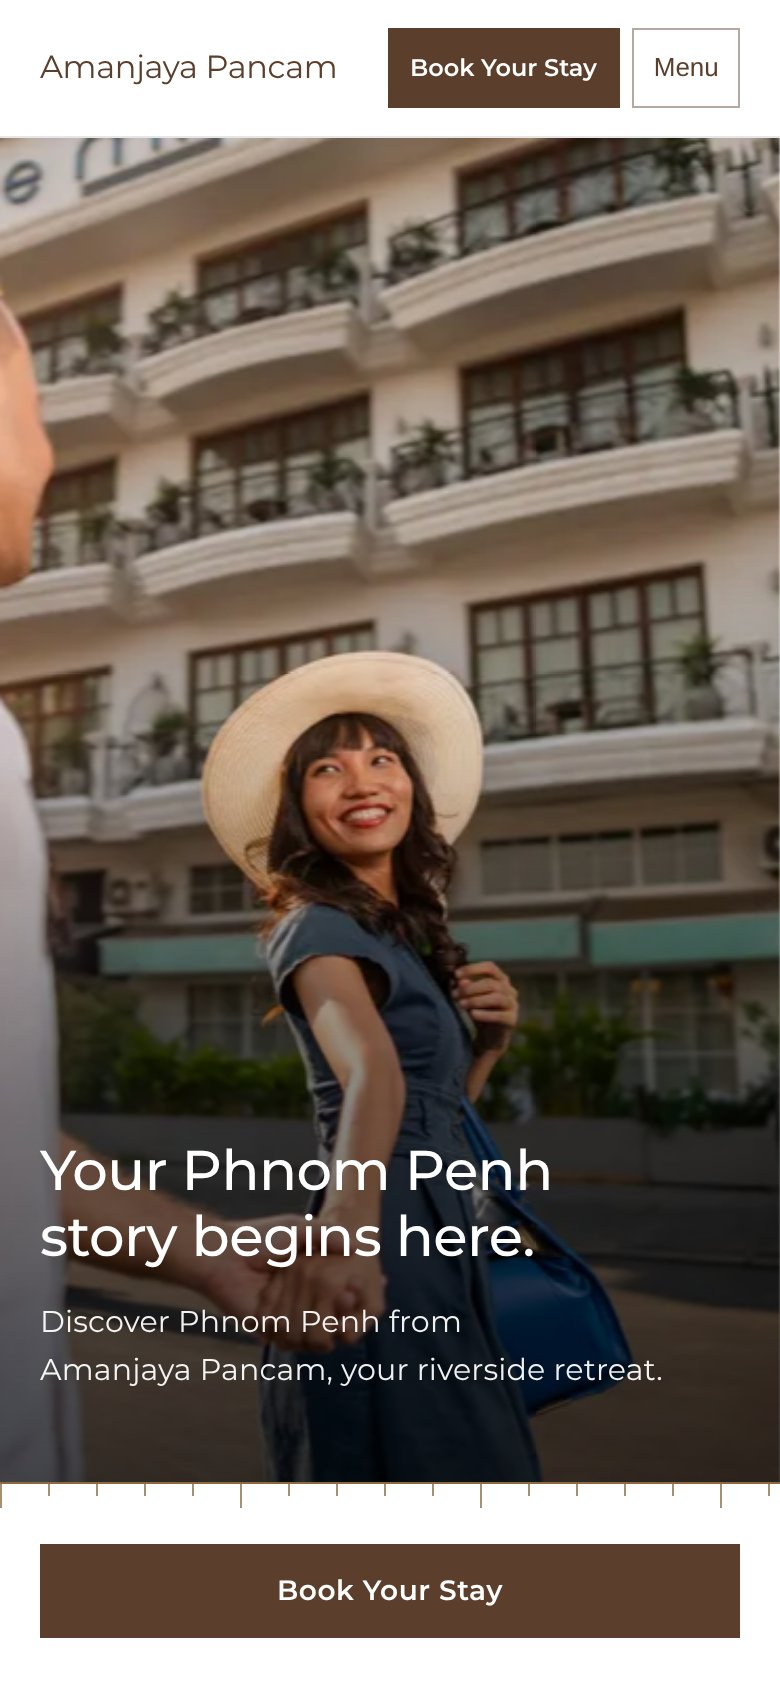
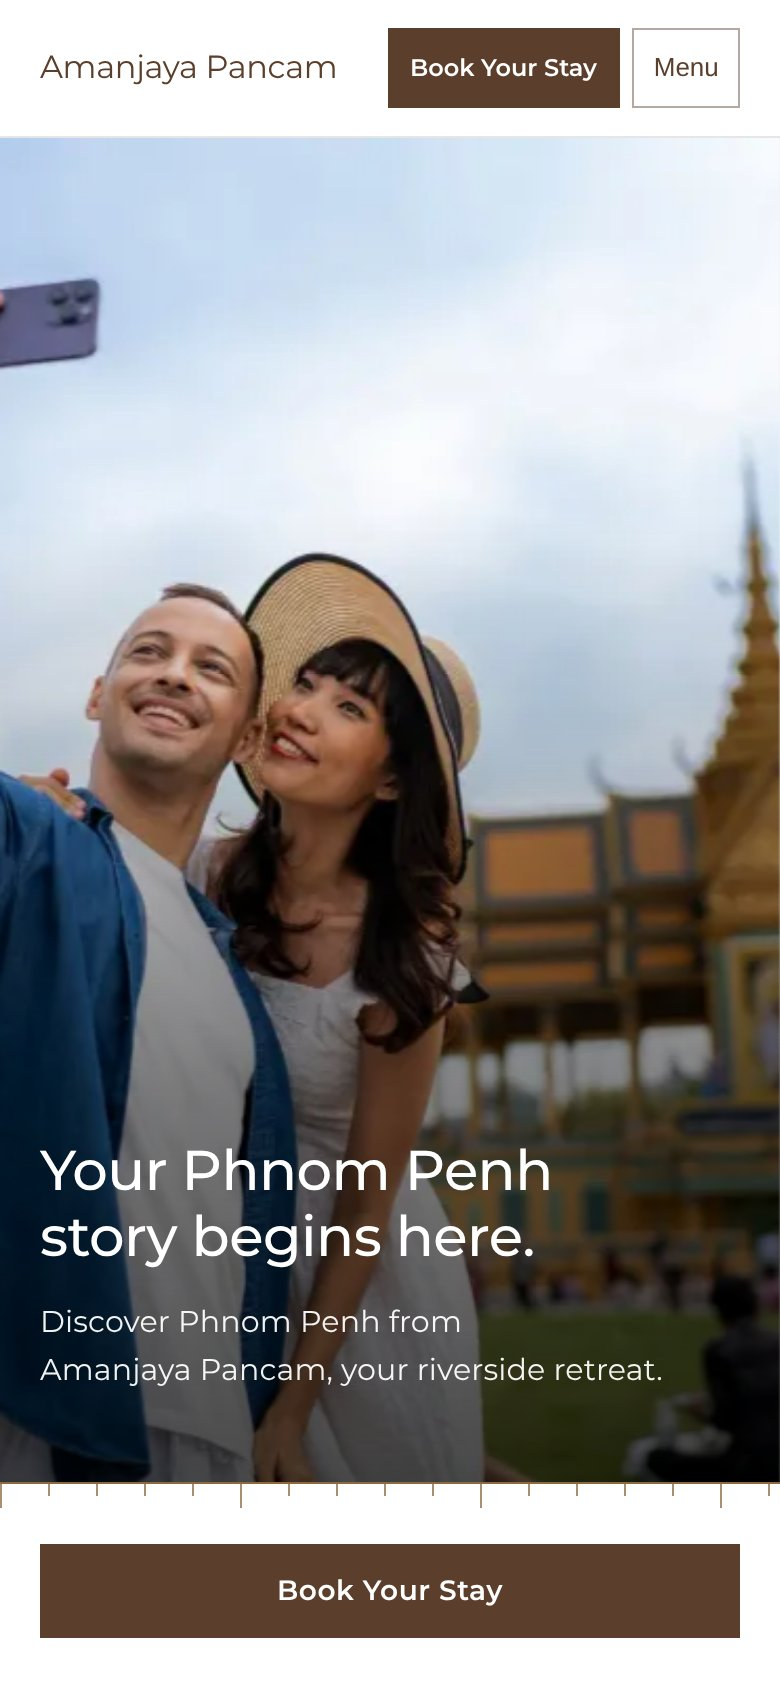
Hero: activate the new photograph (couple taking a selfie at the Royal Palace)
home.ts now points the active hero at amanajaya-hero, with new alt text and
per-photograph desktop and phone focal points (moved out of Hero.astro). The
previous hero stays available as option E. The text block sits upper right
from 72rem and at the foot below that; the shade is now a soft top-right
vignette on wide screens, tuned for the lighter sky (headline 4.0:1 or better,
supporting line 4.2:1 or better at the worst point).

Claude-Session: https://claude.ai/code/session_01Ltb6LhfXKYs7J7ZKfoUyej

diff --git a/src/content/home.ts b/src/content/home.ts
@@ -6,19 +6,30 @@
  */
 
 /**
- * Hero photograph options. A is the approved hero; B to D are kept for the next creative review
- * (comparison in docs/screenshots/hero-options.jpg and docs/PHOTO-REVIEW.md).
+ * Hero photograph options. A is the approved hero; B to E are kept for review
+ * (comparison in docs/screenshots/hero-options.jpg and docs/PHOTO-REVIEW.md). E is the previous hero.
+ * `position` is the desktop focal point and `positionMobile` the phone one (CSS object-position).
  * To preview another option locally:  PUBLIC_HERO_OPTION=B npm run dev
  * Builds use A unless that variable is set.
  */
 export const heroOptions = [
   {
     id: 'A',
+    photo: 'amanajaya-hero',
+    /** Desktop: both faces sit left of centre, so the right stays open for the text. */
+    position: '50% 20%',
+    /** Phones: a narrow window centred on the two faces (they span about 35% to 55% across the photograph). */
+    positionMobile: '50% 35%',
+    alt: 'A smiling couple takes a selfie in front of the Royal Palace in Phnom Penh, the man holding his phone at arm’s length and the woman in a sun hat leaning in beside him',
+    note: 'Couple taking a selfie in front of the Royal Palace (2048 px, uploaded by the hotel team). Current.',
+  },
+  {
+    id: 'E',
     photo: 'hero',
-    /** Focal point so the crop keeps the smiling guest and the hotel balconies on every screen shape. */
-    position: '60% 18%',
+    position: '60% 14%',
+    positionMobile: '66% 30%',
     alt: 'A couple walks hand in hand at sunset in front of the Amanjaya Pancam hotel',
-    note: 'Couple in front of the hotel at golden hour (2560 px). Current.',
+    note: 'Couple in front of the hotel at golden hour (2560 px). The previous hero.',
   },
   {
     id: 'B',
@@ -48,6 +59,7 @@ const chosenHero = heroOptions.find((o) => o.id === import.meta.env.PUBLIC_HERO_
 export const hero = {
   photo: chosenHero.photo,
   position: chosenHero.position,
+  positionMobile: 'positionMobile' in chosenHero ? chosenHero.positionMobile : chosenHero.position,
   alt: chosenHero.alt,
   title: 'Your Phnom Penh story begins here.',
   support: 'Discover Phnom Penh from Amanjaya Pancam, your riverside retreat.',

diff --git a/docs/DESIGN-RATIONALE.md b/docs/DESIGN-RATIONALE.md
@@ -8,15 +8,16 @@ A hairline in bronze with a river-gauge scale hanging from it marks the join bet
 
 ## The hero
 
-A full-width, immersive photograph of the couple in front of the hotel, with the text set directly on it in white Montserrat. It replaced the earlier white text panel.
+A full-width, immersive photograph with the text set directly on it in white Montserrat. It replaced the earlier white text panel.
 
+- **Photograph.** A couple taking a selfie in front of the Royal Palace (`src/assets/photos/amanajaya-hero.webp`, 2048px, uploaded by the hotel team; its source and licence are still to be confirmed). The previous hero, the couple in front of the hotel, is kept as option E in `src/content/home.ts` with its exact crops (`PUBLIC_HERO_OPTION=E npm run dev`).
 - **Words.** Headline: "Your Phnom Penh story begins here." (Medium 500, up to 40px). Beneath it, in the same block and on the same left edge: "Discover Phnom Penh from Amanjaya Pancam, your riverside retreat." (Regular 400, 15 to 17px, so clearly quieter). Both wrap to two balanced lines at every width, and "Phnom Penh" and "Amanjaya Pancam" never split across lines.
-- **Placement.** Desktop (56rem and up): the block sits on the right, in the upper part of the photograph, over the facade and above the woman's hat, so her face and the couple stay clear. Phones and tablets: the block sits at the foot, below both faces.
-- **No colour treatment.** The only overlay is neutral black: a light gradient from the right edge, plus a soft blurred shade that travels with the text block so the pale facade never washes it out. No golden, brown or blend-mode filter; the warm light is the photograph's own.
-- **Readability, measured** against the brightest pixels behind the text: headline 3.9:1 or better at the worst (typically 5 to 8:1); supporting line 4.5:1 or better at the worst (typically 6 to 10:1). AA asks 3:1 for large text and 4.5:1 for small.
-- **Crops.** Desktop shows the whole scene (focal point 60% 14%). Phones crop in on the woman and the facade (66% 30%).
-- The waterline still marks the join between photograph and page and draws once on load; the photograph settles once on load (off under reduced motion). The photograph is served up to 2560px wide in the usual responsive WebP set, loaded eagerly with high priority.
-- A left-hand version of the same block is in `docs/screenshots/hero-text-left-comparison.jpg`. It crowds the man's head, which is why the right was kept. To move the block, change `justify-content` on `.hero__overlay .container` (and mirror the gradient) in `Hero.astro`.
+- **Placement.** From 72rem (1152px) the block sits at the upper right, over the open sky and clear of the couple and the palace spire. Below that, including tablets and phones, it sits at the foot of the photograph, below both faces. (On narrower desktops the block cannot avoid the spire and the couple.)
+- **Crops.** Focal points are set per photograph in `home.ts`: `position` for desktop (50% 20%, so the raised phone stays in frame even when the hero height is capped on very wide screens) and `positionMobile` for phones (50% 35%, a narrow window centred on the two faces, which span about 35% to 55% across the photograph). Both faces are fully visible at every width tested, from 360 to 1920px.
+- **No colour treatment.** The only overlay is neutral black: on wide screens a soft shade rising from the top-right corner, strongest behind the text and gone before the couple, so it reads as light falloff rather than a patch; below 72rem a gradient rising from the bottom. No golden, brown or blend-mode filter.
+- **Readability, measured** against the brightest pixels behind the text, from 360 to 1920px: headline 4.0:1 or better at the worst point; supporting line 4.2:1 or better at the worst point, with the typical pixel at 4.6:1 or better. AA asks 3:1 for large text and 4.5:1 for small.
+- The waterline still marks the join between photograph and page and draws once on load; the photograph settles once on load (off under reduced motion). Responsive WebP sizes are generated up to the original 2048px (not enlarged); loaded eagerly with high priority.
+- `docs/screenshots/hero-text-left-comparison.jpg` shows a left-hand text block, made with the previous hotel photograph.
 
 ## Type
 
